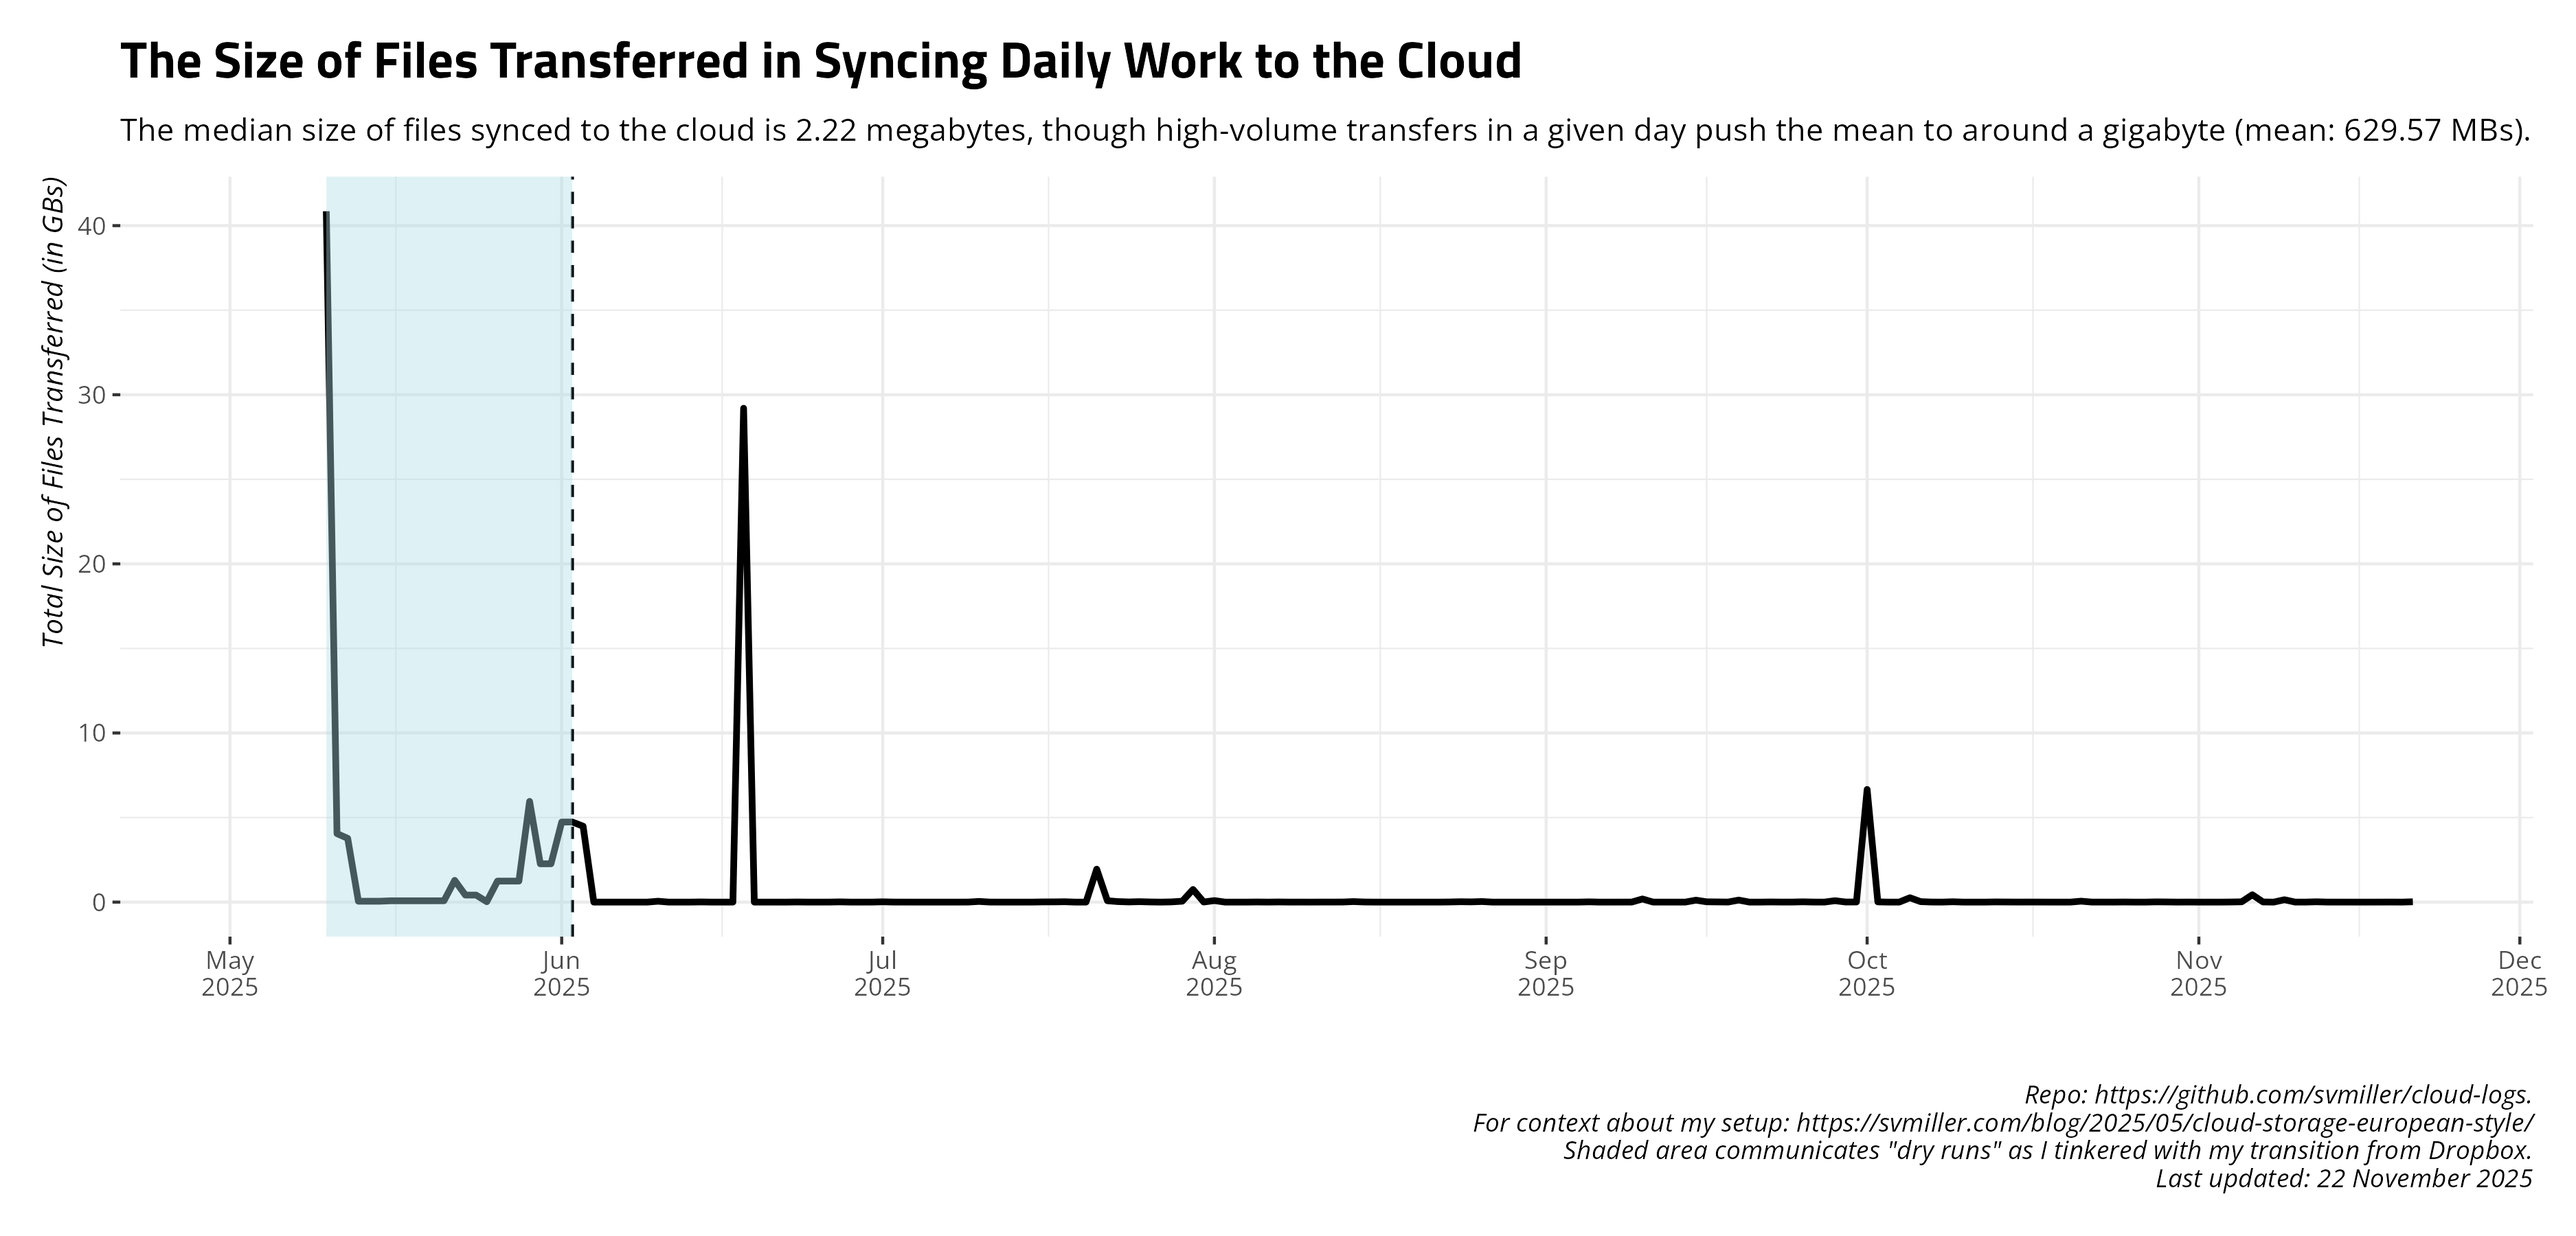
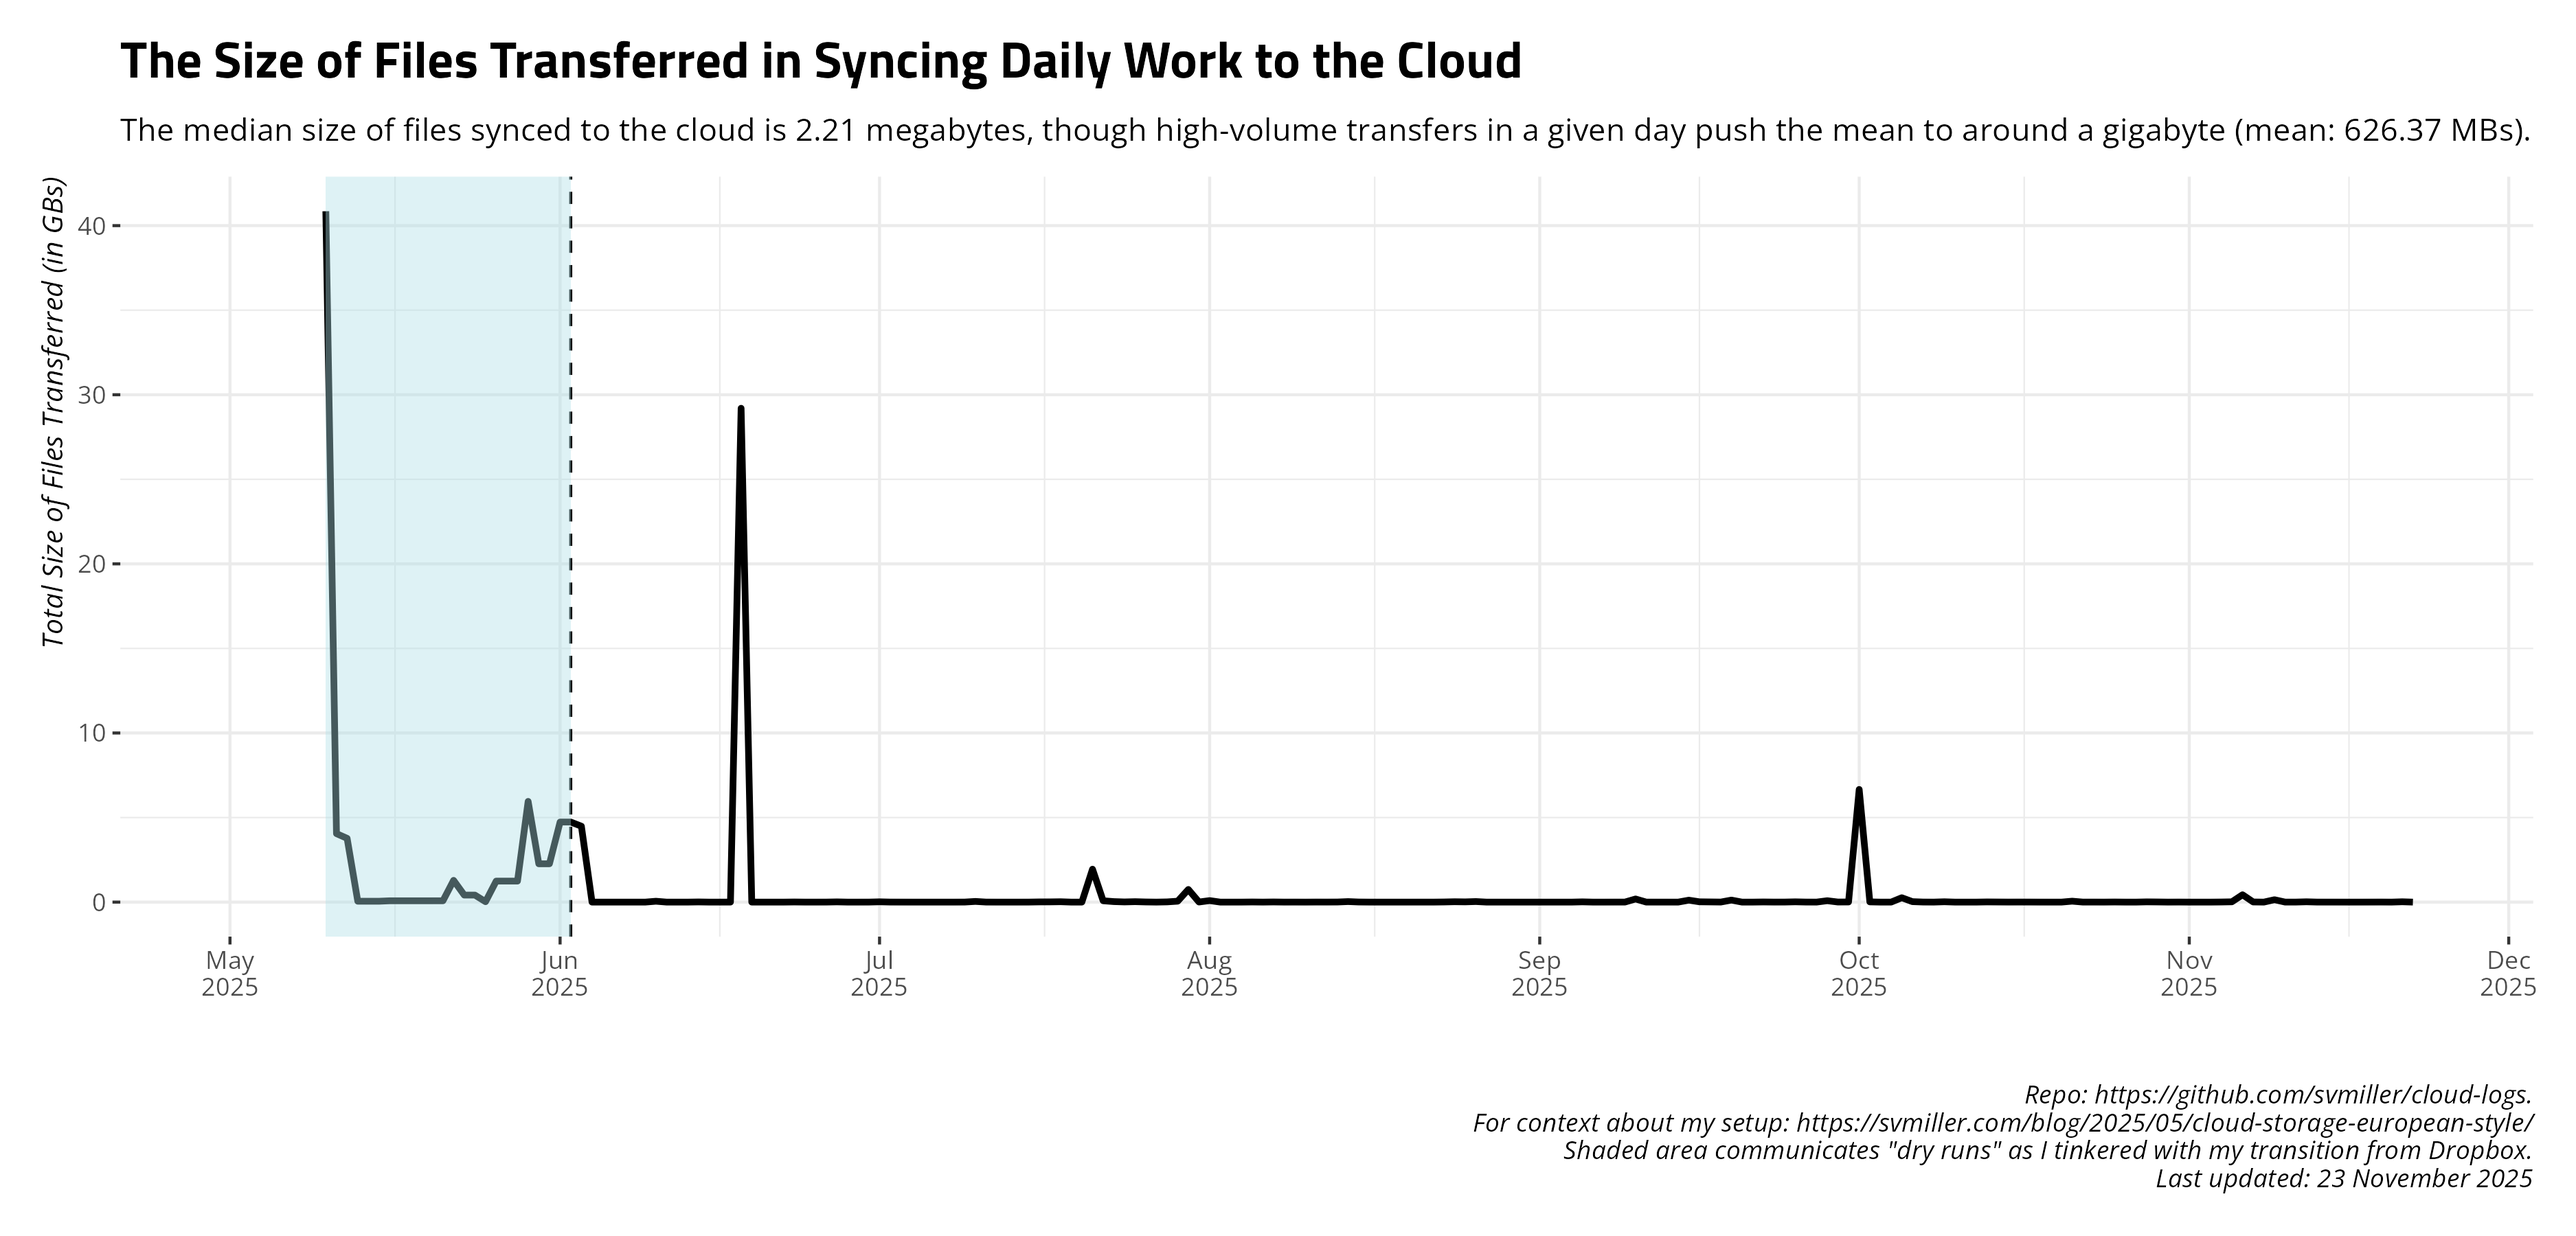
Date: 2025-11-23 09:00:18. Hi mom!

diff --git a/README.md b/README.md
@@ -27,17 +27,17 @@ and uploads to Github.
     #> # A tibble: 14 × 4
     #>    date       ftransfer stransfer   elapsed
     #>    <date>         <dbl> <chr>       <chr>  
-    #>  1 2025-11-08         0 <NA>        4m52.9s
-    #>  2 2025-11-09      1714 143.133 MiB 5m4.7s 
-    #>  3 2025-11-10        48 1.490 MiB   4m52.7s
-    #>  4 2025-11-11        81 1.673 MiB   5m1.9s 
-    #>  5 2025-11-12       725 18.854 MiB  5m33.3s
-    #>  6 2025-11-13         2 1.737 MiB   7m23.6s
-    #>  7 2025-11-14        95 1.137 MiB   4m44.7s
-    #>  8 2025-11-15        37 820.913 KiB 4m56.9s
-    #>  9 2025-11-16         0 <NA>        4m59.2s
-    #> 10 2025-11-17        32 359.220 KiB 4m54.7s
-    #> 11 2025-11-18         4 1.671 MiB   4m58.9s
-    #> 12 2025-11-19        12 3.454 MiB   4m58.5s
-    #> 13 2025-11-20         5 289.079 KiB 4m51.0s
-    #> 14 2025-11-21        96 19.696 MiB  4m13.3s
+    #>  1 2025-11-09      1714 143.133 MiB 5m4.7s 
+    #>  2 2025-11-10        48 1.490 MiB   4m52.7s
+    #>  3 2025-11-11        81 1.673 MiB   5m1.9s 
+    #>  4 2025-11-12       725 18.854 MiB  5m33.3s
+    #>  5 2025-11-13         2 1.737 MiB   7m23.6s
+    #>  6 2025-11-14        95 1.137 MiB   4m44.7s
+    #>  7 2025-11-15        37 820.913 KiB 4m56.9s
+    #>  8 2025-11-16         0 <NA>        4m59.2s
+    #>  9 2025-11-17        32 359.220 KiB 4m54.7s
+    #> 10 2025-11-18         4 1.671 MiB   4m58.9s
+    #> 11 2025-11-19        12 3.454 MiB   4m58.5s
+    #> 12 2025-11-20         5 289.079 KiB 4m51.0s
+    #> 13 2025-11-21        96 19.696 MiB  4m13.3s
+    #> 14 2025-11-22         0 <NA>        4m57.3s
